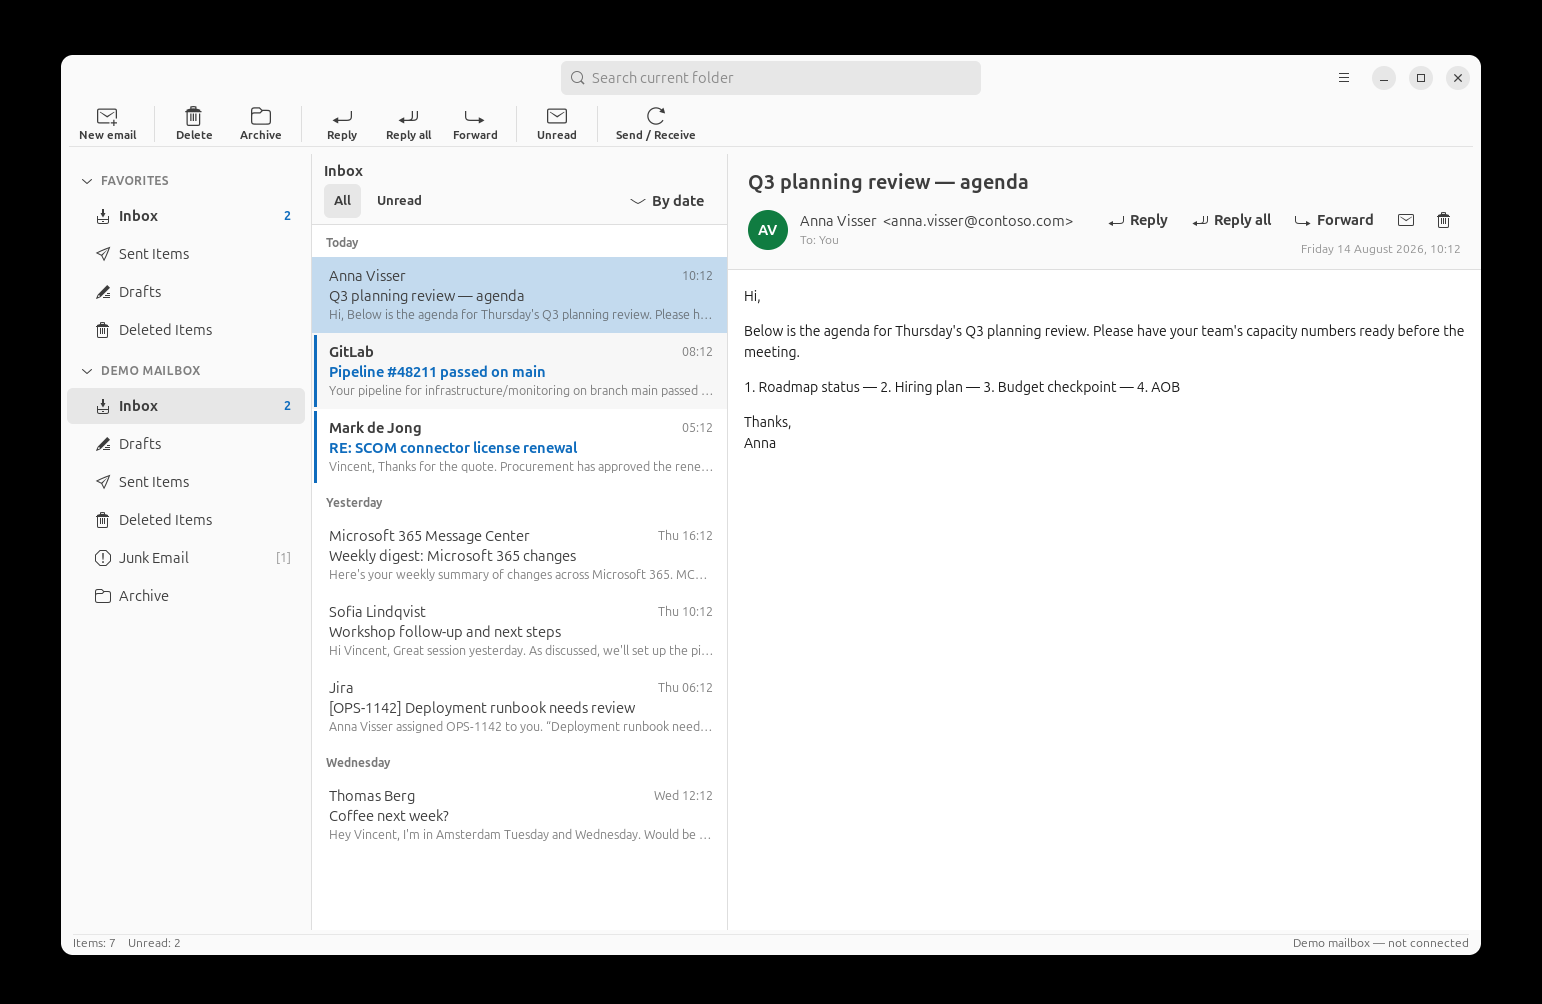
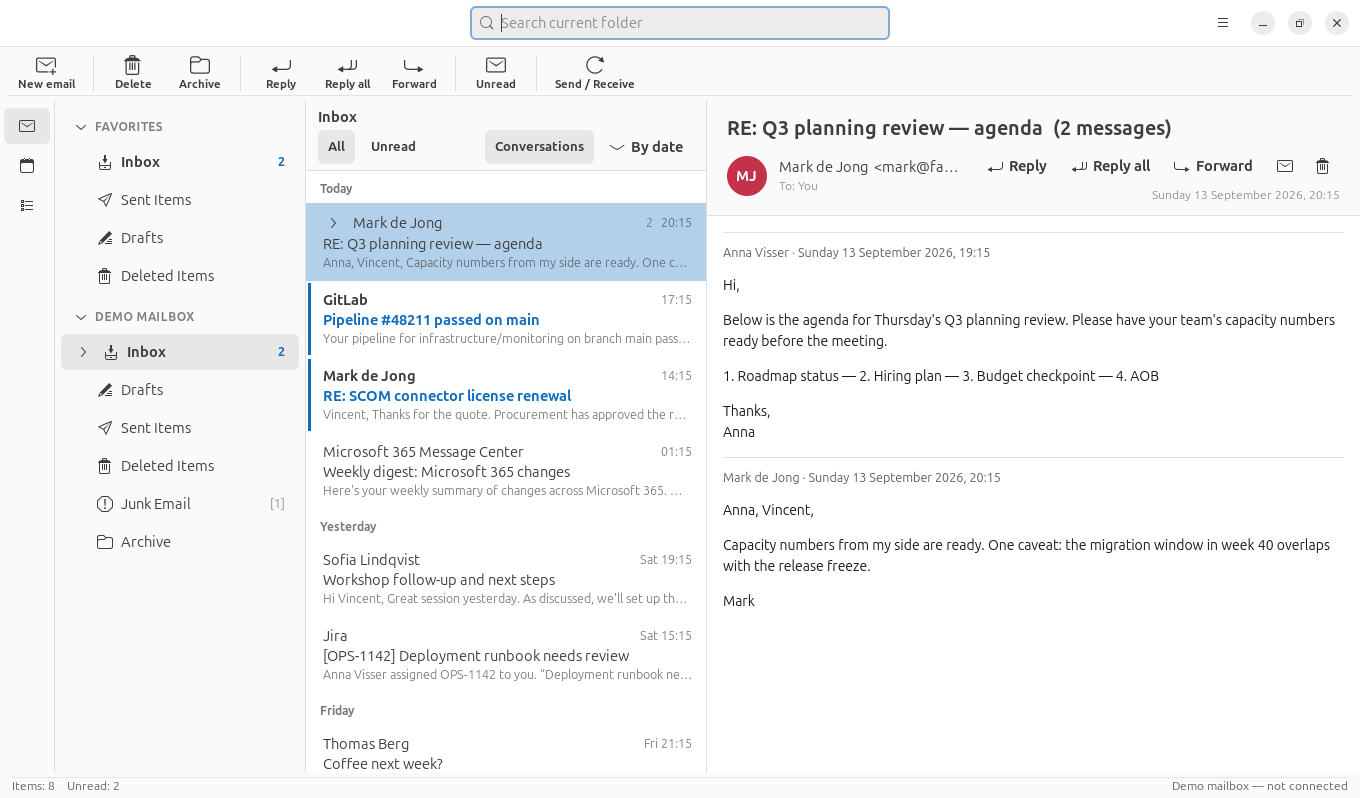
Bring the README up to what the app does
It still described the client as it stood before attachments, the rich
composer, the folder tree, new-mail notices and connectors — and HubSpot
as something built in, which it no longer is.

The screenshot was of a version without the rail or conversations, so it
is retaken from the demo mailbox.

diff --git a/README.md b/README.md
@@ -12,9 +12,8 @@ Graph API and keeps a local copy so mail is readable **offline**.
 - Classic Outlook three-pane layout: folder pane, message list, reading pane,
   with draggable dividers whose widths are remembered, a ribbon-style
   command bar and a status bar
-- **HubSpot tickets** in their own pane beside Mail and Calendar: pipeline
-  stages as folders, tickets as rows, and a ticket's threads assembled in
-  the reading pane
+- **Folder tree**: folders inside folders, expanded from the pane, each
+  remembering where it sits
 - **Several mailboxes at once** — each gets its own section in the folder
   pane, its own cache and its own sync, with a shared Favorites section on top
 - Message list grouped by date (Today / Yesterday / weekday / Last Week), an
@@ -23,8 +22,24 @@ Graph API and keeps a local copy so mail is readable **offline**.
   with an arrow that expands it in place into its individual messages;
   opening the row reads the whole exchange in order; delete, archive and
   mark-read act on the conversation. Toggle it off to see single messages
-- Reading pane with contact initials, Reply, Reply all and Forward
+- Reading pane with contact initials, Reply, Reply all and Forward, and a
+  mark on the messages that have already been replied to or forwarded
+- **Attachments**: what a message carries is listed under its header and
+  opens with whatever the desktop uses for that kind of file. The bytes are
+  fetched on the first open and kept, so an attachment opened once opens
+  again with no network. Pictures the message draws are shown in the body
+  rather than listed as files
+- **Compose in the message itself**: a reply or forward opens with the
+  original quoted beneath the cursor, exactly as it will be sent. A forward
+  keeps the original's own formatting — pictures, tables, layout — and
+  carries its attachments along
+- Right-click a message for what to do with it; archiving or deleting the
+  open message lands on the next one down, the way Outlook does
 - Drag a message onto a folder to move it (within the same mailbox)
+- **Connectors**: a pane beside Mail and Calendar for things that are not
+  mail but read like it — a helpdesk queue, an issue tracker. Each connector
+  is a separate program OpenLook talks to; a HubSpot tickets plugin ships
+  with it (see [Connectors](#connectors))
 - **Calendar**: a month view switched from the rail on the left, merging
   every mailbox's events (colour-coded), with a day panel showing times,
   location and organiser; double-click an appointment to open it. Cached
@@ -38,6 +53,8 @@ Graph API and keeps a local copy so mail is readable **offline**.
   bounded to a recent window so a token arrives in one request, after which
   each poll is a single cheap call; local edits are never clobbered by a
   stale sync
+- **A desktop notice when mail arrives**, which goes by itself; turn it off
+  in Settings
 - Read HTML mail (WebKitGTK, JavaScript disabled; links open in your browser)
 - Compose, send, reply; mark read/unread; delete; per-folder search
 - **Demo mailbox** out of the box, so the whole UI works before you sign in
@@ -75,7 +92,8 @@ cargo test                # offline-behaviour tests (no display needed)
 ```
 
 `install.sh` sources the shim automatically when the `-dev` packages are
-missing.
+missing. The `.deb` also installs the HubSpot plugin (`openlook-hubspot`)
+and its manifest under `/usr/share/openlook/plugins`.
 
 ## Signing in
 
@@ -106,6 +124,40 @@ its client ID under **Advanced** in the sign-in dialog, or in Settings:
    `Mail.ReadWrite`, `Mail.Send`, `Calendars.Read` (grant admin consent if
    required).
 
+## Connectors
+
+The third pane on the rail is for sources that are not mail but read like it:
+something with sections to list, items in them, and a body to read. Nothing
+about any particular service is compiled into OpenLook — a connector is a
+**plugin**, a separate program OpenLook starts and talks to over its standard
+input and output, one JSON object per line. A plugin can be written in any
+language, updated on its own, and a crash or a hang in it costs a pane rather
+than the mail client.
+
+Open the pane and press **Add mailbox…** to pick an installed plugin, give it
+whatever it needs to connect, and choose which of its queues to show as
+folders. Items are cached and read offline exactly like mail.
+
+Plugins are looked for in, nearest first:
+
+```
+~/.config/openlook/plugins/       your own
+/usr/share/openlook/plugins/      installed by a package
+/usr/local/share/openlook/plugins/
+```
+
+The credential a plugin was set up with is kept outside `settings.json`, in
+`~/.config/openlook/plugins/<id>/credential` (0600).
+
+Each is a directory holding the program and a `plugin.json` naming it —
+`data/plugins/hubspot/plugin.json` is the one that ships. A plugin sitting
+beside the running binary is found too, which is what makes one usable
+straight from a build directory.
+
+`src/bin/openlook-hubspot.rs` is the bundled example: HubSpot tickets, in a
+little over a hundred lines. The protocol it answers is documented at the top
+of `src/plugin.rs`.
+
 ## How offline works
 
 The UI never talks to the network. It reads only from the local database,
@@ -119,13 +171,17 @@ and a background engine reconciles that database with the server:
 - **Reading**: folders, message lists and prefetched bodies come from
   `~/.local/share/openlook/<account>.db`. With no network you still see
   everything that has been synced; a message whose body was never downloaded
-  says so instead of failing.
+  says so instead of failing. Attachments already opened once are kept under
+  `~/.local/share/openlook/attachments/`.
 - **Writing**: every change is applied to the cache immediately, then queued
   in an `outbox` table. The engine drains that queue whenever it can reach
   the server, and retries what it can't. A message composed offline appears
   in Sent Items marked *Queued* until it goes out.
 - **Safety**: messages with queued changes are skipped when a sync would
   otherwise overwrite them, so a sync in flight can't undo what you just did.
+- **Nothing waits on the network**: filing a message takes its row out of the
+  list at once, and the reports a sync makes gather into one redraw, so the
+  window keeps answering clicks while a mailbox is enumerating.
 - The header bar shows the state: *Syncing…*, *Offline — showing cached
   mail*, *N waiting to sync*, or *Updated 5 min ago*.
 
@@ -138,15 +194,22 @@ src/
   sync.rs       background engine: delta sync, body prefetch, queue replay
   graph.rs      Microsoft Graph client, with errors classified for retry
   auth.rs       device-code OAuth + token cache
+  connector.rs  what a source other than mail has to provide
+  plugin.rs     connectors living outside the app, over stdin/stdout
+  hubspot.rs    HubSpot REST client, used by the plugin
   demo.rs       demo mailbox seeded into the cache
-  ui/           window, compose, dialogs
+  ui/           window, compose, calendar, dialogs
+  bin/openlook-hubspot.rs   the HubSpot plugin
 tests/offline.rs  offline behaviour tests
 tools/dev-shim.sh build without the GTK -dev packages
+tools/mkdeb.sh    package a .deb, optionally for Ubuntu 22.04
 ```
 
 ## Roadmap
 
+- Attaching files to a message you write (a forward already carries the
+  original's)
+- Formatting toolbar for the message you write (a forward keeps the
+  original's formatting)
 - Creating and editing appointments (the calendar is read-only today)
-- Attachments (view/save/send)
 - Full-text search across folders (the cache makes this cheap)
-- New-mail desktop notifications
